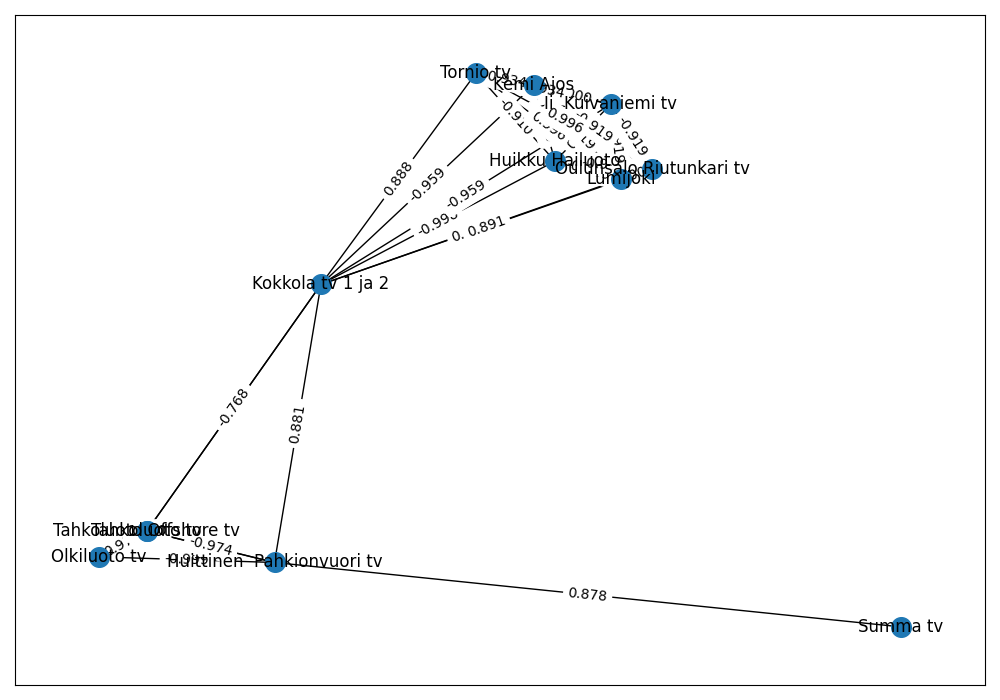
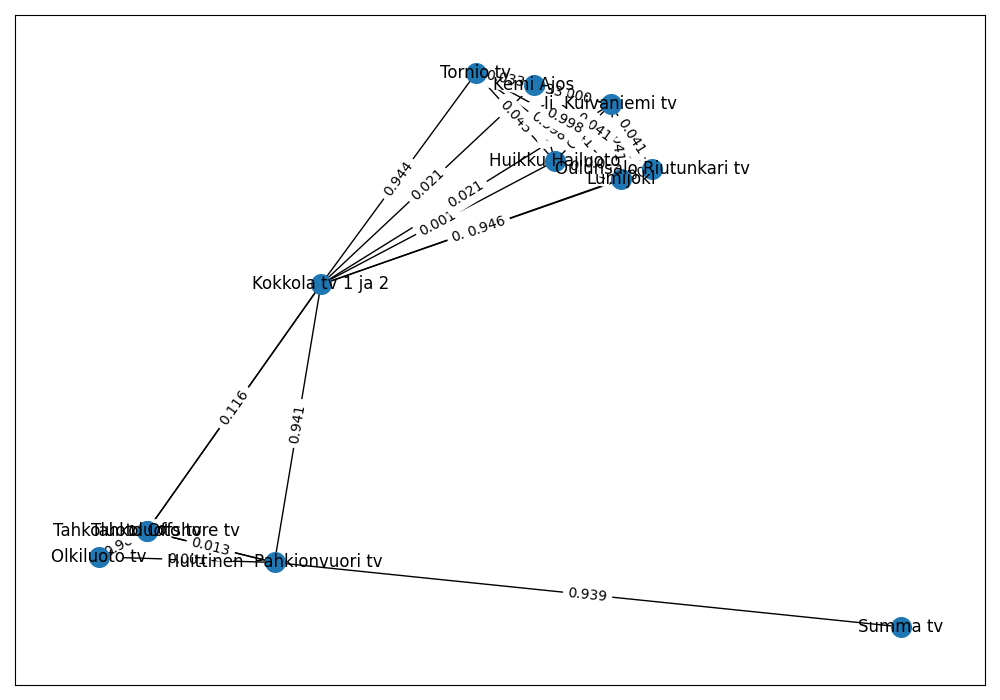
Some alpha things

diff --git a/main.py b/main.py
@@ -282,7 +282,7 @@ df_test = df_combined.drop(df_combined.columns.difference(["Wind speed [m/s]_mea
 
 similarity_matrix = cosine_similarity(df_test)
 
-alpha = 1
+alpha = 0.5
 
 df = df_combined
 
@@ -294,7 +294,7 @@ for i in range(len(df)):
 
         dist_score = 1 / (1 + dist)  # normalize distance to calc weight accurately
 
-        weight1 = alpha * sim #+ (1 - alpha) * dist_score  #weight calc how close physically and how similar based on similarity matrix
+        weight1 = alpha * sim + (1 - alpha) * dist_score  #weight calc how close physically and how similar based on similarity matrix
 
         if(G.has_edge(df.iloc[i]["location"],df.iloc[j]["location"])):
             G[df.iloc[i]["location"]][df.iloc[j]["location"]]["weight"] = weight1

diff --git a/probability.py b/probability.py
@@ -230,7 +230,7 @@ def count_subsequent_indexes(check_list, preceding, subsequent):
         try:
             if scenario[index + 1] == subsequent:
                 count += 1
-        except IndexError, ValueError:
+        except (IndexError, ValueError):
             continue
     
     return count
